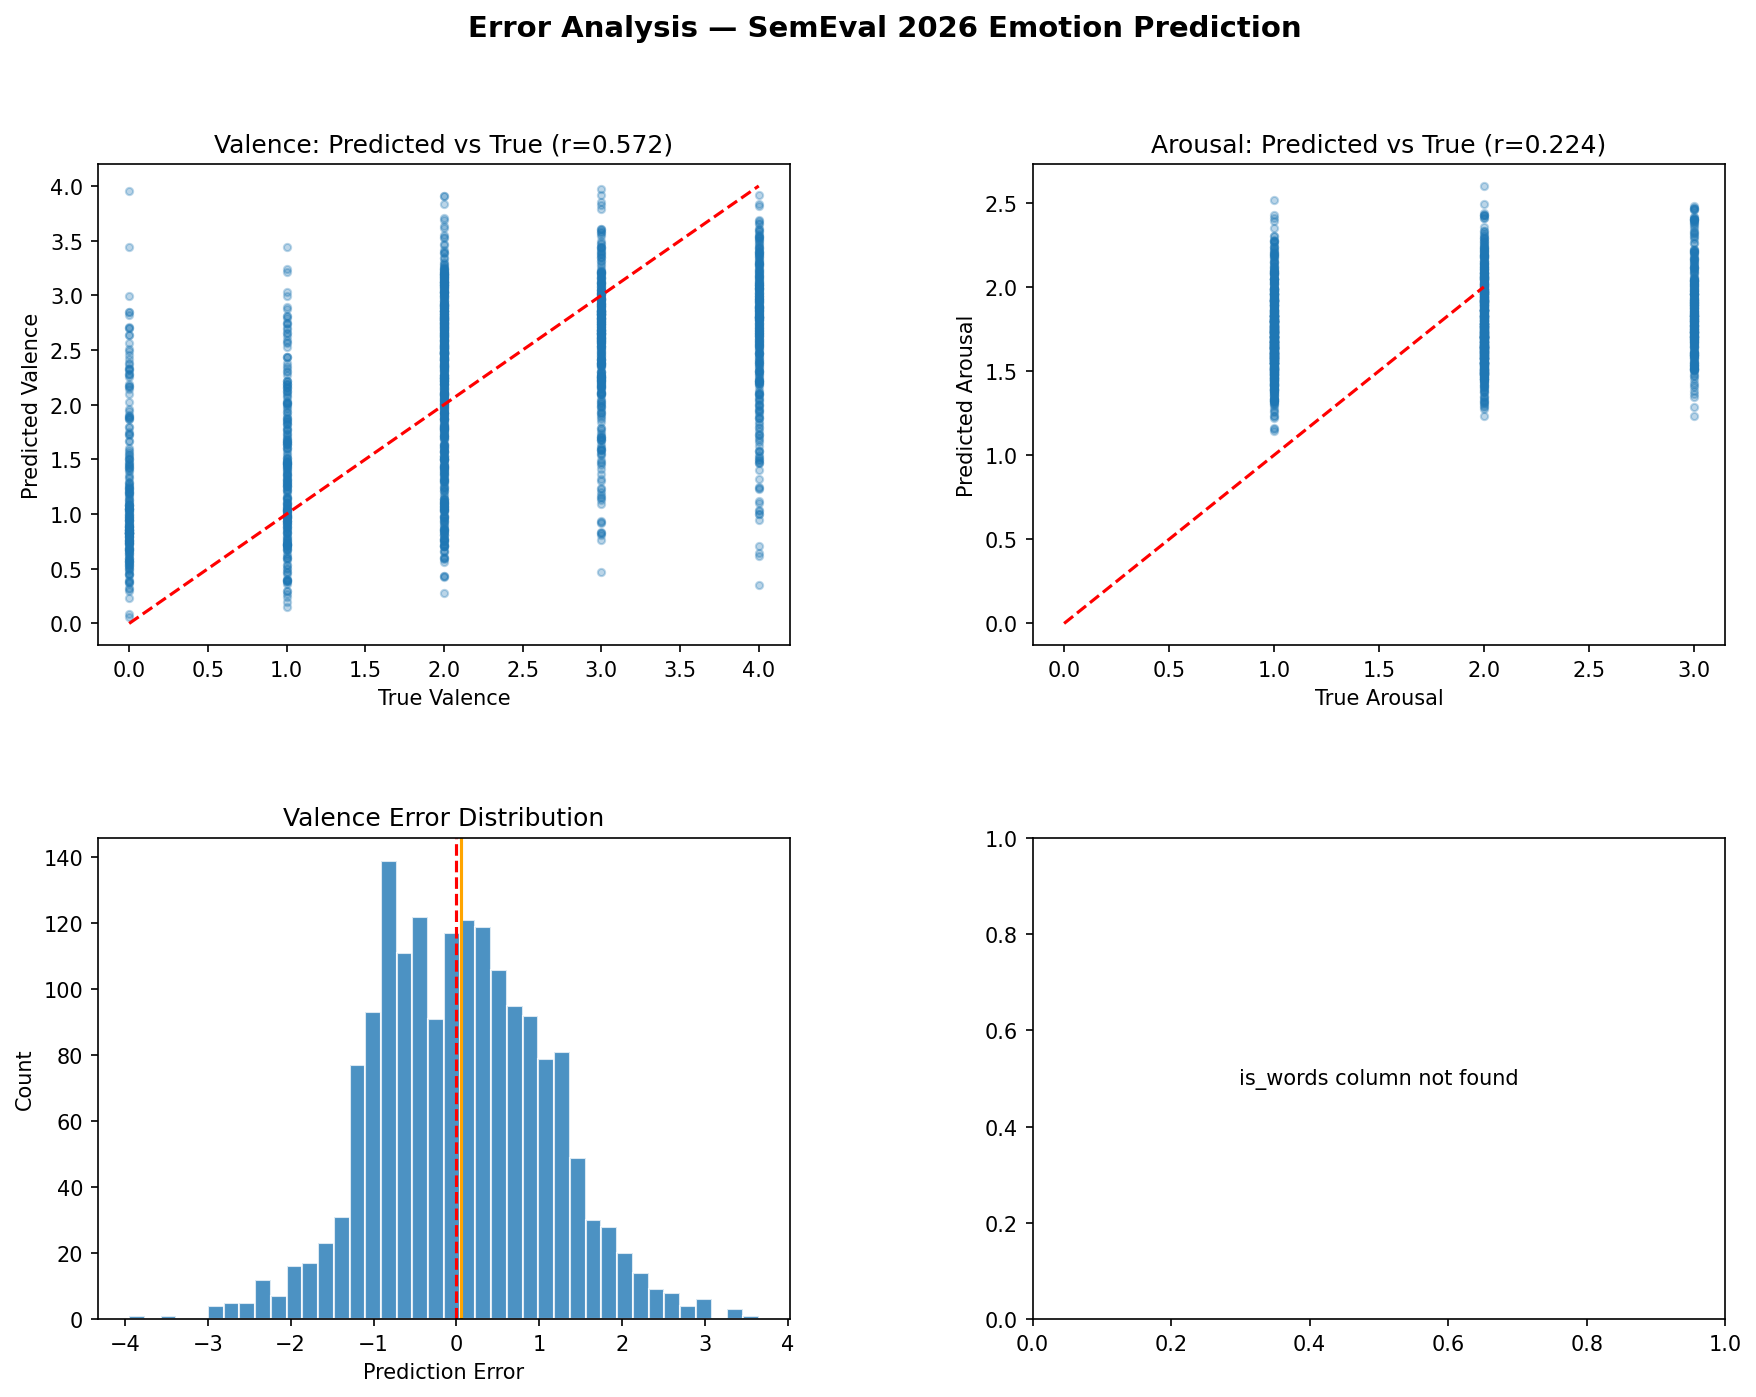
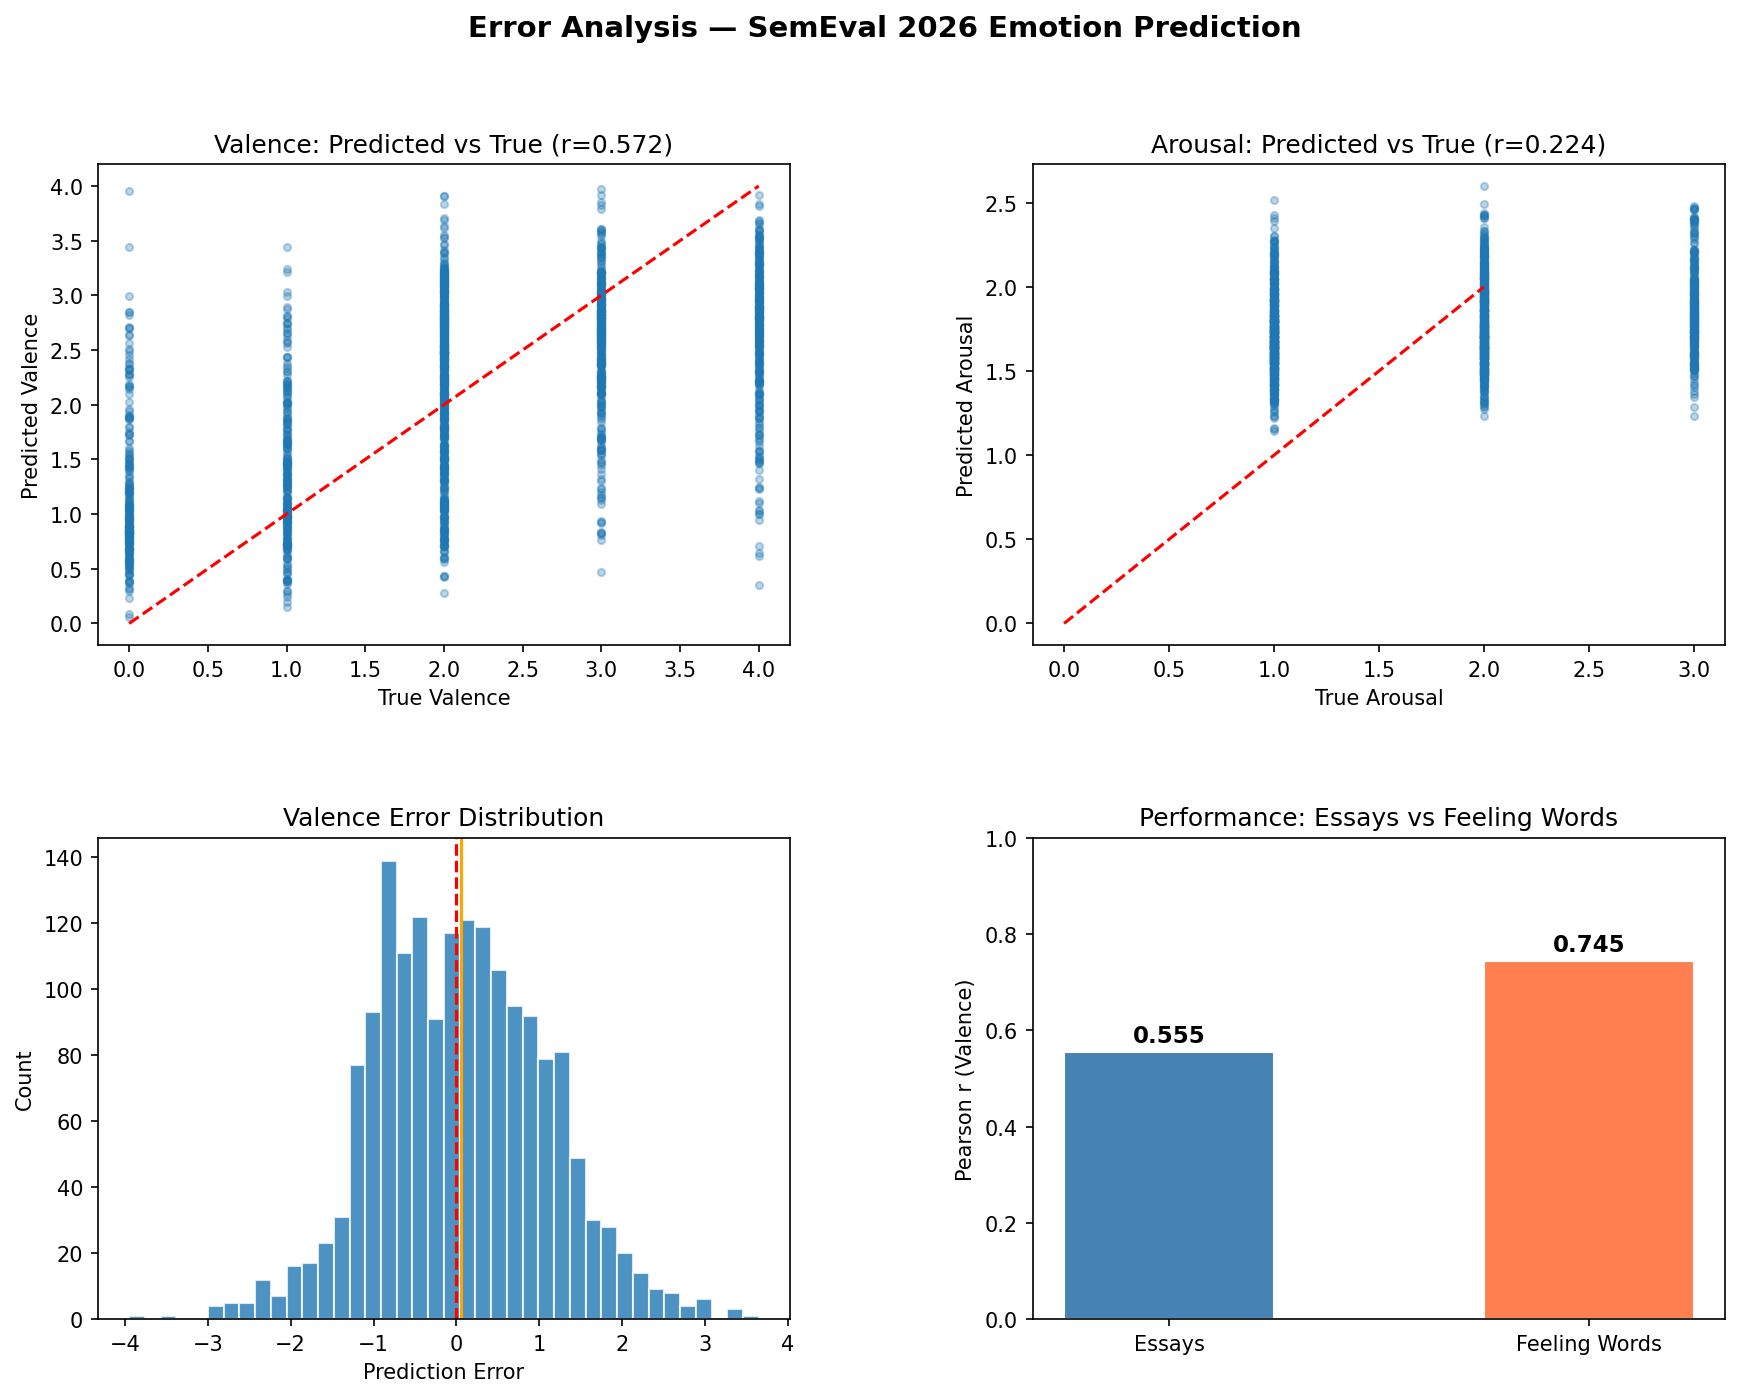
Final error analysis and ensemble complete

diff --git a/notebooks/10_error_analysis.py b/notebooks/10_error_analysis.py
@@ -129,77 +129,70 @@ ax3.set_ylabel('Count')
 
 ax3.set_title('Valence Error Distribution')
 
-# ── Chart 4 ──────────────────────────────────────────
-# Essays vs Feeling Words
+# ==============================
+# CHART 4 — Essays vs Feeling Words
+# ==============================
+
+from sklearn.model_selection import train_test_split
+from sklearn.ensemble import RandomForestRegressor
+from scipy.stats import pearsonr
+
+train_full = pd.read_csv(r'D:\MLproject semeval\data\train_features.csv')
+
+X_tr2, X_vl2, yv_tr2, yv_vl2 = train_test_split(
+    train_full[['word_count','is_feeling_words','sentiment_polarity',
+                'positive_word_ratio','negative_word_ratio','emotion_word_count',
+                'avg_word_length','first_person_count','intensifier_count',
+                'exclamation_count','hour_of_day','day_of_week',
+                'days_since_first']].fillna(0),
+    train_full['valence'],
+    test_size=0.2,
+    random_state=42
+)
+
+rf2 = RandomForestRegressor(
+    n_estimators=100,
+    random_state=42,
+    n_jobs=-1
+)
+
+rf2.fit(X_tr2, yv_tr2)
+
+val_preds2 = rf2.predict(X_vl2)
+
+# Split validation set
+val_df2 = train_full.iloc[X_vl2.index].copy()
+val_df2['pred'] = val_preds2
+
+essays_v = val_df2[val_df2['is_feeling_words'] == 0]
+fwords_v = val_df2[val_df2['is_feeling_words'] == 1]
+
+r_e = pearsonr(essays_v['valence'], essays_v['pred'])[0]
+r_f = pearsonr(fwords_v['valence'], fwords_v['pred'])[0]
 
 ax4 = fig.add_subplot(gs[1, 1])
 
-train_info = pd.read_csv(
-    r'D:\MLproject semeval\data\train_subtask1.csv'
-)[['text_id', 'is_words']]
-
-merged2 = submission.merge(
-    labels,
-    on='text_id'
-).merge(
-    train_info,
-    on='text_id',
-    how='left'
+bars = ax4.bar(
+    ['Essays', 'Feeling Words'],
+    [r_e, r_f],
+    color=['steelblue', 'coral'],
+    width=0.5,
+    edgecolor='white'
 )
 
-if 'is_words' in merged2.columns:
+ax4.set_ylim(0, 1)
+ax4.set_ylabel('Pearson r (Valence)')
+ax4.set_title('Performance: Essays vs Feeling Words')
 
-    essays = merged2[merged2['is_words'] == False]
-
-    fwords = merged2[merged2['is_words'] == True]
-
-    r_essay, _ = pearsonr(
-        essays['valence'],
-        essays['pred_valence']
-    )
-
-    r_fword, _ = pearsonr(
-        fwords['valence'],
-        fwords['pred_valence']
-    )
-
-    bars = ax4.bar(
-        ['Essays', 'Feeling Words'],
-        [r_essay, r_fword],
-        width=0.5
-    )
-
-    ax4.set_ylim(0, 1)
-
-    ax4.set_ylabel('Pearson r')
-
-    ax4.set_title(
-        'Performance: Essays vs Feeling Words'
-    )
-
-    for bar, val in zip(
-        bars,
-        [r_essay, r_fword]
-    ):
-
-        ax4.text(
-            bar.get_x() + bar.get_width()/2,
-            bar.get_height() + 0.02,
-            f'{val:.3f}',
-            ha='center'
-        )
-
-else:
-
+for bar, val in zip(bars, [r_e, r_f]):
     ax4.text(
-        0.5,
-        0.5,
-        'is_words column not found',
+        bar.get_x() + bar.get_width()/2,
+        bar.get_height() + 0.02,
+        f'{val:.3f}',
         ha='center',
-        va='center',
-        transform=ax4.transAxes
+        fontsize=11,
+        fontweight='bold'
     )
-
 # ── Save charts ──────────────────────────────────────
 
 plt.savefig(
